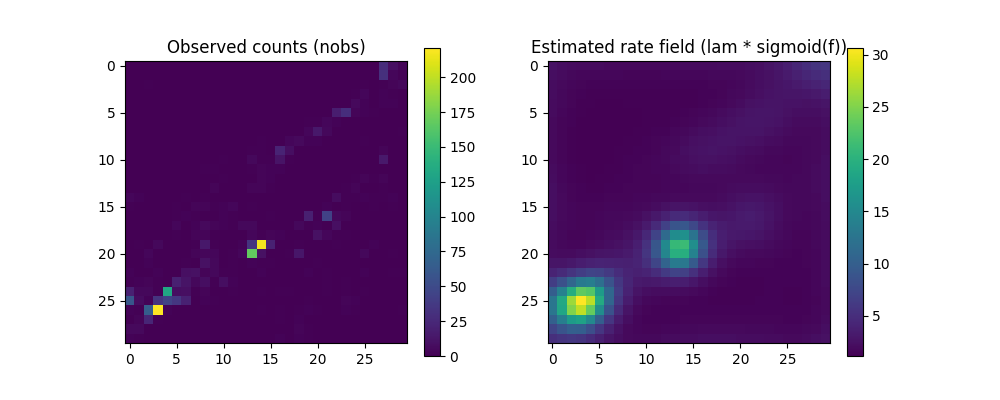
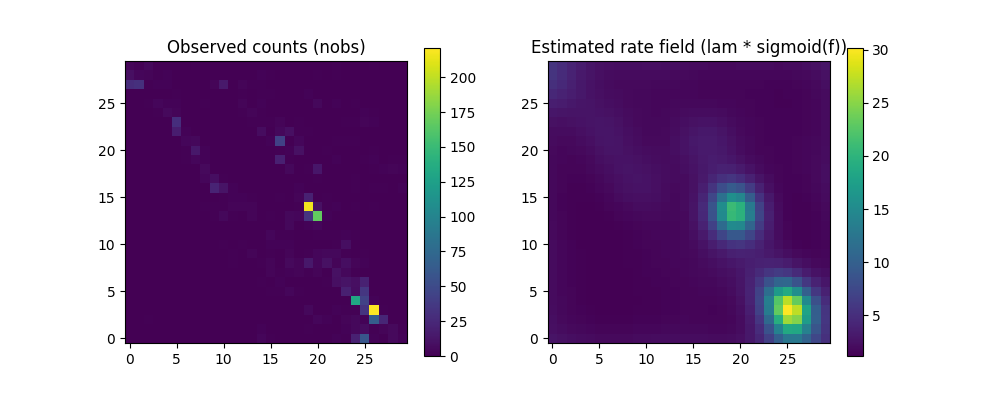
progressing

diff --git a/source/exp_gibbs_pg_usgs.py b/source/exp_gibbs_pg_usgs.py
@@ -227,21 +227,24 @@ def main():
     plt.figure(figsize=(10, 4))
     plt.subplot(1, 2, 1)
     plt.title("Observed counts (nobs)")
-    plt.imshow(counts, origin="lower", norm=PowerNorm(gamma=0.5))
+    plt.imshow(counts, origin="lower")
+    # plt.imshow(counts, origin="lower", norm=PowerNorm(gamma=0.5))
     plt.colorbar()
 
     plt.subplot(1, 2, 2)
     plt.title("Estimated rate field (lam * sigmoid(f))")
-    plt.imshow(sd.scanorder_to_image(field_est, n, m), origin="lower", norm=PowerNorm(gamma=0.5))
+    plt.imshow(sd.scanorder_to_image(field_est, n, m), origin="lower")
+    # plt.imshow(sd.scanorder_to_image(field_est, n, m), origin="lower", norm=PowerNorm(gamma=0.5))
+
     plt.colorbar()
 
         # --- Plot stored Gibbs samples (rate fields) ---
-    for i, sample in enumerate(samples):
-        plt.figure(figsize=(4, 4))
-        plt.title(f"Gibbs sample {i}")
-        sample_field = pgd.field_from_f(sample)
-        plt.imshow(sd.scanorder_to_image(sample_field, n, m), origin="lower")
-        plt.colorbar()
+    # for i, sample in enumerate(samples):
+    #     plt.figure(figsize=(4, 4))
+    #     plt.title(f"Gibbs sample {i}")
+    #     sample_field = pgd.field_from_f(sample)
+    #     plt.imshow(sd.scanorder_to_image(sample_field, n, m), origin="lower")
+    #     plt.colorbar()
 
     plt.tight_layout()
 
@@ -251,6 +254,11 @@ def main():
 
     plt.figure()
     plt.hist( pgd.nobs )
+    plt.show()
+
+    plt.title("Estimated rate field (lam * sigmoid(f))")
+    plt.imshow(sd.scanorder_to_image(field_est, n, m), origin="lower", norm=PowerNorm(gamma=0.5))
+    plt.colorbar()
     plt.show()
 
     print("Gibbs sampling done.")

diff --git a/talks/2026_habana_pg/main.tex b/talks/2026_habana_pg/main.tex
@@ -52,13 +52,9 @@
 
 \begin{frame}{TODOs}
   \begin{itemize}
-    \item neue plots
-    \item plots drehen
-    \item andere Farbskala
     \item weniger sections
     \item references slide
     \item thx attention slide
-    \item Figure_1 aufteilen
     % \item vielleicht ne Slide zu cholesky (wir berechnen nicht direkt die inverse)
   \end{itemize}
 \end{frame}
@@ -153,9 +149,9 @@ Problem:
 \end{frame}
 
 
-\section{Poisson Splitting Trick}
+% \section{Poisson Splitting Trick}
 
-\begin{frame}{Introduce Latent Counts}
+\begin{frame}{Poisson Splitting Trick - Introduce Latent Counts}
 Define additional latent variables:
 
 \[
@@ -277,12 +273,27 @@ Q = \Sigma^{-1} + \Omega
 
 \section{Application: Earthquake Data}
 
-\begin{frame}{Observed Counts}
-\includegraphics[width=0.99\textwidth]{figures/Figure_1.png}
+\begin{frame}{Earthquake Events as Point Data}
+We observe earthquake epicenters as spatial point data.
+
+\begin{center}
+\includegraphics[width=1.1\textwidth]{figures/earthquakes_points.png}
+\end{center}
+
 \end{frame}
 
+\begin{frame}{Observed Counts}
+\includegraphics[width=1.2\textwidth]{figures/figure_1.png}
+\end{frame}
+
+\begin{frame}{Observed Counts log scale}
+\includegraphics[width=0.99\textwidth]{figures/figure_2.png}
+\end{frame}
+
+
+
 \begin{frame}{Estimated Rate Field}
-\includegraphics[width=0.99\textwidth]{figures/estimated_rate_field.png}
+\includegraphics[width=0.9\textwidth]{figures/estimated_rate_field.png}
 
 Posterior mean:
 \[
